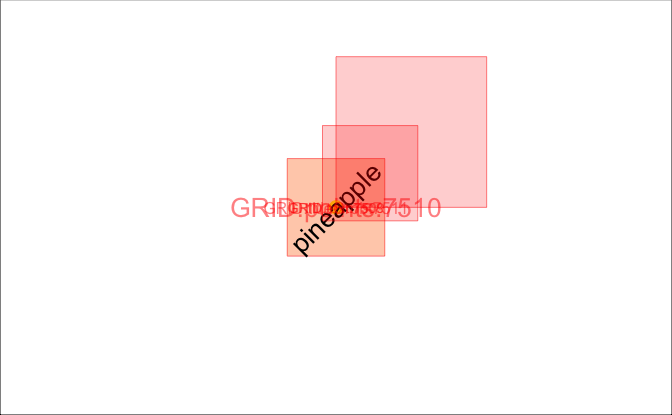
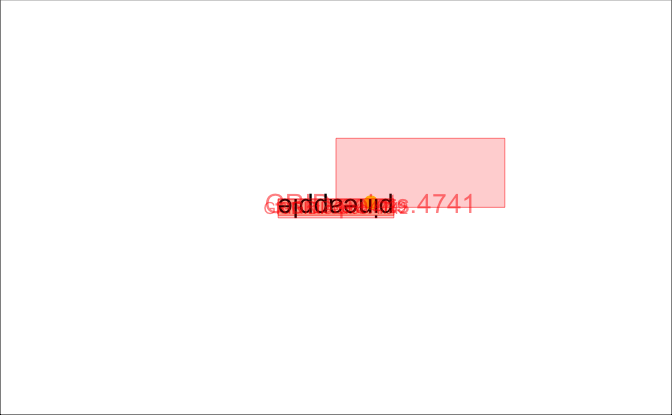
More updates, mostly about hjust/vjust for different angles

Changed region(s): [[0.3438, 0.1157, 0.75, 0.6361]]

diff --git a/titlegrob.md b/titlegrob.md
@@ -1,7 +1,7 @@
 titleGrob()
 ================
 Kara Woo
-26 July, 2017
+27 July, 2017
 
 ``` r
 ## Normally I wouldn't install a package in RMD code, but I want to make sure
@@ -325,6 +325,8 @@ display_tg("pineapple", hjust = 0, vjust = 0, angle = 45, gp = gp)
 
 <img src="figs/display-titlegrob-2.png" width="50%" style="display: block; margin: auto;" />
 
+This is interesting -- before [\#2212](https://github.com/tidyverse/ggplot2/pull/2212) these appeared as just the word `pineapple` in the center of the image, because debugging output didn't work when `expand_x` and `expand_y` were false. Now the debugging works, but it's interesting that the point is all the way at the top left.
+
 ``` r
 ## Add expand_x, expand_y, and margins and view showGrob() overlay
 display_tg(
@@ -339,23 +341,23 @@ display_tg(
 )
 ```
 
-<img src="figs/display-titlegrob-3.png" width="50%" style="display: block; margin: auto;" /><img src="figs/display-titlegrob-4.png" width="50%" style="display: block; margin: auto;" />
+<img src="figs/display-titlegrob-expand-1.png" width="50%" style="display: block; margin: auto;" /><img src="figs/display-titlegrob-expand-2.png" width="50%" style="display: block; margin: auto;" />
 
 ``` r
 grid.ls(viewports = TRUE, fullnames = TRUE)
 ```
 
     ## ROOT
-    ##   GRID.rect.7336
-    ##   GRID.VP.1283
-    ##     GRID.VP.1284
-    ##       GRID.titleGrob.7335
-    ##         GRID.rect.7333
-    ##         GRID.points.7334
-    ##         GRID.text.7332
+    ##   GRID.rect.4567
+    ##   GRID.VP.747
+    ##     GRID.VP.748
+    ##       GRID.titleGrob.4566
+    ##         GRID.rect.4564
+    ##         GRID.points.4565
+    ##         GRID.text.4563
     ##       2
 
-The `grid.ls()` output shows that we beneath the root we have a `rect` and a viewport. Within the viewport is a child viewport as well as a `titleGrob` class object which has a text grob as a child.
+The `grid.ls()` output shows that we beneath the root we have a `rect` and a viewport. Within the viewport is a child viewport as well as a `titleGrob` class object which has the text grob and debugging grobs as children.
 
 ``` r
 ## childNames of a titleGrob object is the text object
@@ -373,7 +375,7 @@ childNames(
 )
 ```
 
-    ## [1] "GRID.text.7358"
+    ## [1] "GRID.text.4589"
 
 What happens if we expand the margins?
 
@@ -456,13 +458,17 @@ display_tg(
 
 <img src="figs/titlegrob-just-3.png" width="50%" style="display: block; margin: auto;" /><img src="figs/titlegrob-just-4.png" width="50%" style="display: block; margin: auto;" />
 
-How do rotation and hjust/vjust interact? Things are likely to be weird given that the behavior is only explicitly defined when `angle` is 0, 90, 180, or 270.
+How do rotation and hjust/vjust interact? Things are likely to be weird given that there are special cases for when `angle` is 90, 180, or 270, and fallback behavior for every angle in between.
+
+`titleGrob()` uses `hjust` and `vjust` to determine x and y position in when x/y are `NULL`. For all angles except 90, 180, and 270, it uses the value of `hjust` for x and `vjust` for y. Some examples:
 
 ``` r
 display_tg(
   "pineapple",
-  hjust = 0.5,
-  vjust = 0.5,
+  x = NULL,                             # Becomes 1 - vjust
+  y = NULL,                             # Becoems hjust
+  hjust = 0.2,
+  vjust = 0.2,
   angle = 90,
   expand_x = TRUE,
   expand_y = TRUE,
@@ -477,9 +483,11 @@ display_tg(
 ``` r
 display_tg(
   "pineapple",
-  hjust = 0.5,
-  vjust = 0.5,
-  angle = 45,
+  x = NULL,                             # Becomes 1 - hjust
+  y = NULL,                             # Becomes 1 - vjust
+  hjust = 0.2,
+  vjust = 0.2,
+  angle = 180,
   expand_x = TRUE,
   expand_y = TRUE,
   margin = margin(20, 20, 20, 20),
@@ -493,9 +501,11 @@ display_tg(
 ``` r
 display_tg(
   "pineapple",
-  hjust = 0.5,
-  vjust = 0.5,
-  angle = 20,
+  x = NULL,                             # Becomes hjust
+  y = NULL,                             # Becomes vjust
+  hjust = 0.2,
+  vjust = 0.2,
+  angle = 220,
   expand_x = TRUE,
   expand_y = TRUE,
   margin = margin(20, 20, 20, 20),
